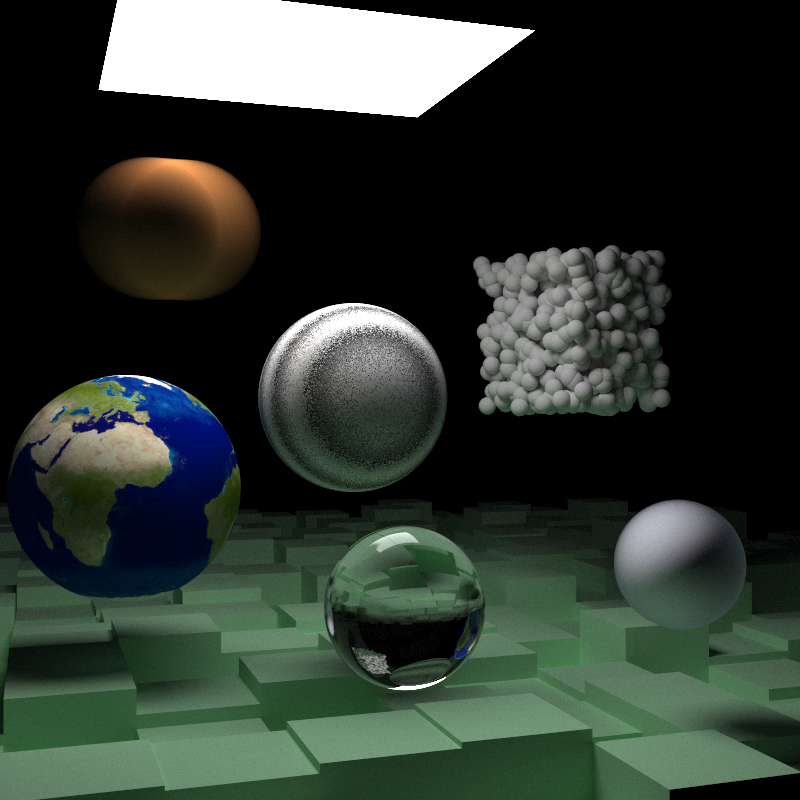
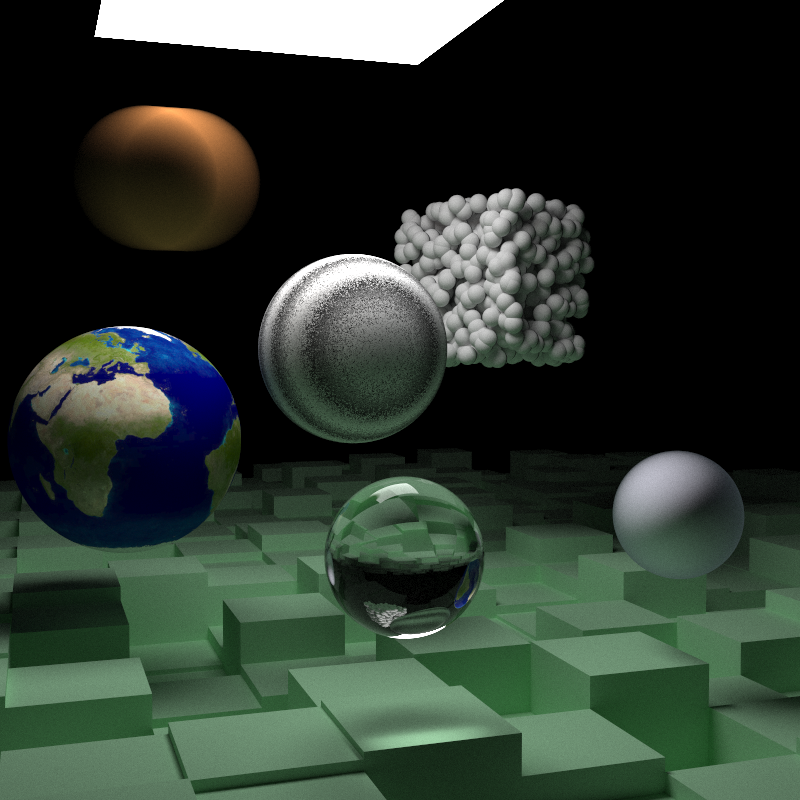
minor: Clean and update README

diff --git a/src/scene/week_render.rs b/src/scene/week_render.rs
@@ -28,6 +28,18 @@ use crate::{
 pub fn week_scene() -> Scene {
     let mut hittable_list: HittableList = HittableList::new();
 
+    // NOTE: DO NOT COMMENT THIS OUT
+    let light_material = Materials::Diffuse(DiffuseLightMaterial::new(Arc::new(
+        SolidColorTexture::new_from_rgb(7.0, 7.0, 7.0),
+    )));
+    let light_source: Quad = Quad::new(
+        Point::new(123.0, 554.0, 147.0),
+        Vector::new(300.0, 0.0, 0.0),
+        Vector::new(0.0, 0.0, 265.0),
+        light_material,
+    );
+    hittable_list.add_hittable(Arc::new(light_source));
+
     let ground_material = Materials::Lambertian(LambertianMaterial::new(Arc::new(
         SolidColorTexture::new_from_rgb(0.48, 0.83, 0.53),
     )));
@@ -40,7 +52,7 @@ pub fn week_scene() -> Scene {
         for j in 0..boxes_per_side {
             let x0 = -900.0 + (i as f64 * w);
             let y0 = -100.0;
-            let z0 = 0.0 + (j as f64 * w);
+            let z0 = -100.0 + (j as f64 * w);
 
             let x1 = x0 + w;
             let y1 = random_double_in_range(-50.0, 51.0);
@@ -54,17 +66,6 @@ pub fn week_scene() -> Scene {
             hittable_list.add_hittable_list(ground_box.to_hittable_list());
         }
     }
-
-    let light_material = Materials::Diffuse(DiffuseLightMaterial::new(Arc::new(
-        SolidColorTexture::new_from_rgb(7.0, 7.0, 7.0),
-    )));
-    let light_source: Quad = Quad::new(
-        Point::new(123.0, 554.0, 147.0),
-        Vector::new(300.0, 0.0, 0.0),
-        Vector::new(0.0, 0.0, 265.0),
-        light_material,
-    );
-    hittable_list.add_hittable(Arc::new(light_source));
 
     let centre_material = Materials::Lambertian(LambertianMaterial::new(Arc::new(
         SolidColorTexture::new_from_rgb(0.7, 0.3, 0.1),
@@ -114,7 +115,7 @@ pub fn week_scene() -> Scene {
 
         floating_spheres_list.add_hittable(Arc::new(cur_sphere));
     }
-    let rotated_spheres = Rotation::new(Arc::new(floating_spheres_list), 0.0, 15.0, 0.0);
+    let rotated_spheres = Rotation::new(Arc::new(floating_spheres_list), 0.0, 25.0, 0.0);
     hittable_list.add_hittable(Arc::new(rotated_spheres));
 
     // Camera Settings
@@ -122,7 +123,7 @@ pub fn week_scene() -> Scene {
     camera = camera.override_image_specs(1.0, 800);
     camera = camera.override_camera_pos(
         Point::new(478.0, 278.0, -600.0),
-        Point::new(278.0, 278.0, 0.0),
+        Point::new(278.0, 250.0, 0.0),
         Vector::new(0.0, 1.0, 0.0),
         40.0,
         0.0,

diff --git a/README.md b/README.md
@@ -1,5 +1,9 @@
 # Ray Tracing in a ~Weekend~ Month
 
-This project was done following the book "[_Ray Tracing in One Weekend_](https://raytracing.github.io/books/RayTracingInOneWeekend.html)"
+This project was done following the book "[_Ray Tracing in One Weekend_](https://raytracing.github.io/books/RayTracingInOneWeekend.html)" as well as its sequel "[_Ray Tracing: The Next Week_](https://raytracing.github.io/books/RayTracingTheNextWeek.html)"
 
-Various scenes have been rendered and saved in [images](./images)
+Various scenes have been rendered and saved in [images](./images), but the final renders for both books are as follows:
+
+![Weekend Final Render](./images/final_weekend_render.png)
+
+![Week Final Render](./images/final_week_render.png)
